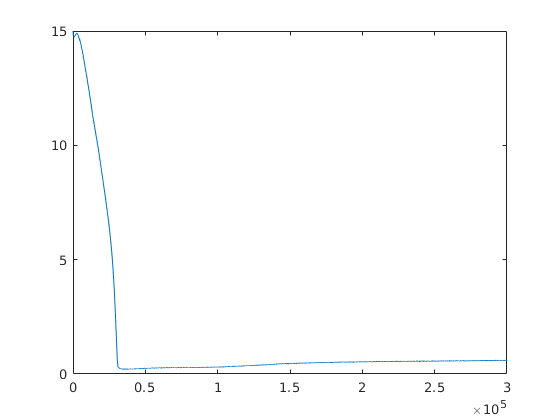
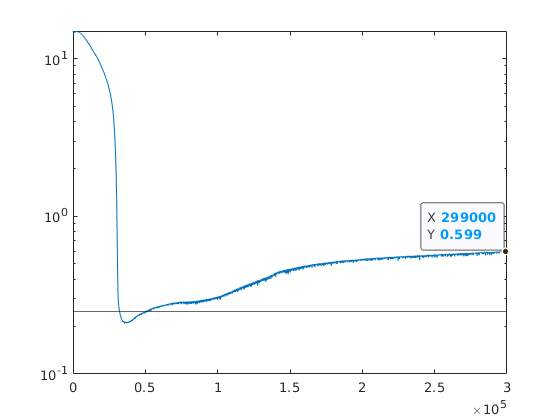
.

diff --git a/Thrombus/Inv_L/test_26/test.m b/Thrombus/Inv_L/test_26/test.m
@@ -5,9 +5,9 @@ clc
 lmd = load('lmd_e.his');
 
 figure()
-plot(lmd)
+semilogy(lmd)
 hold on
-yline(15)
+yline(0.25)
 
 loss = load('loss.his');
 figure()
